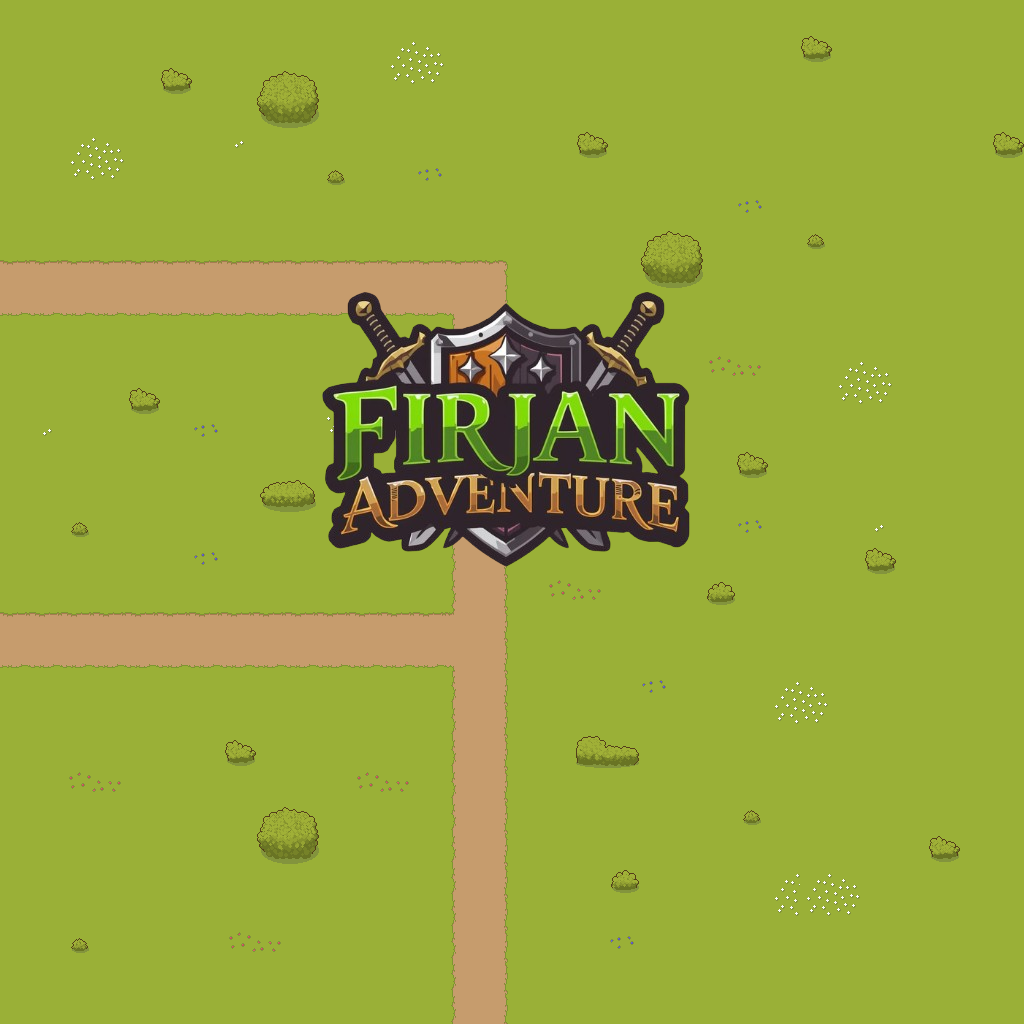
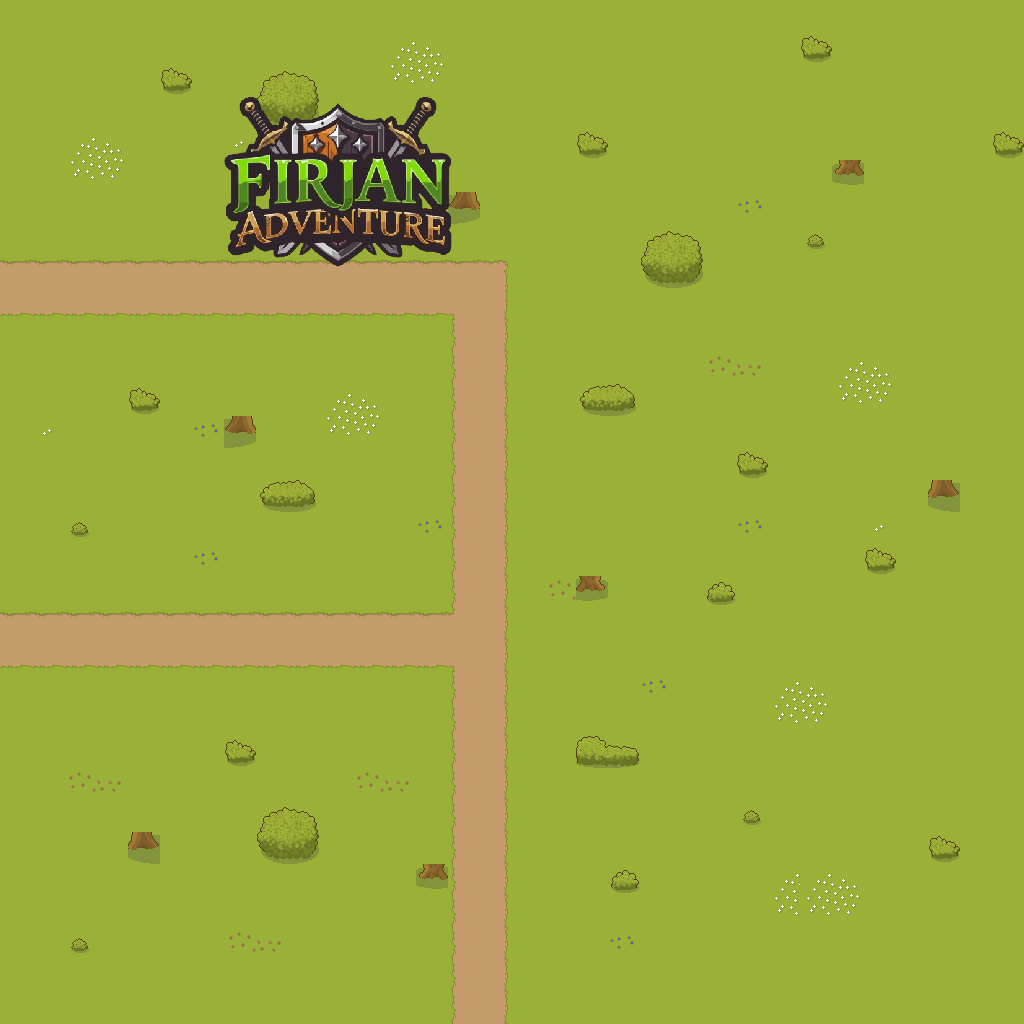
feat: Adicionando overlayer de arvores

diff --git a/src/main/resources/static/js/assetLoader.js b/src/main/resources/static/js/assetLoader.js
@@ -1,7 +1,9 @@
 
 export function loadAssets(k) {
 
-  k.loadSprite('Map', '../assets/maps/mapateste.png')
+  k.loadSprite('Map', '../assets/maps/mapa1.png')
+  k.loadSprite('Map1trees', '../assets/maps/map1trees.png')
+  //k.loadSprite('Map', '../assets/maps/mapatesteshowscase.png')
 
   k.loadSprite("player-down", "./assets/sprites/player/MainC_Walk_Front.PNG", {
     sliceX: 4,

diff --git a/src/main/resources/static/js/scenes/world.js b/src/main/resources/static/js/scenes/world.js
@@ -17,6 +17,11 @@ export async function setWorld(ctx) {
 
   map.add([k.sprite("Map")]);
 
+  map.add([
+    k.sprite("Map1trees"),
+    k.z(1)
+  ]);
+
   let player = null;
   for (const layer of mapData.layers) {
     if (layer.type === "tilelayer") continue;
